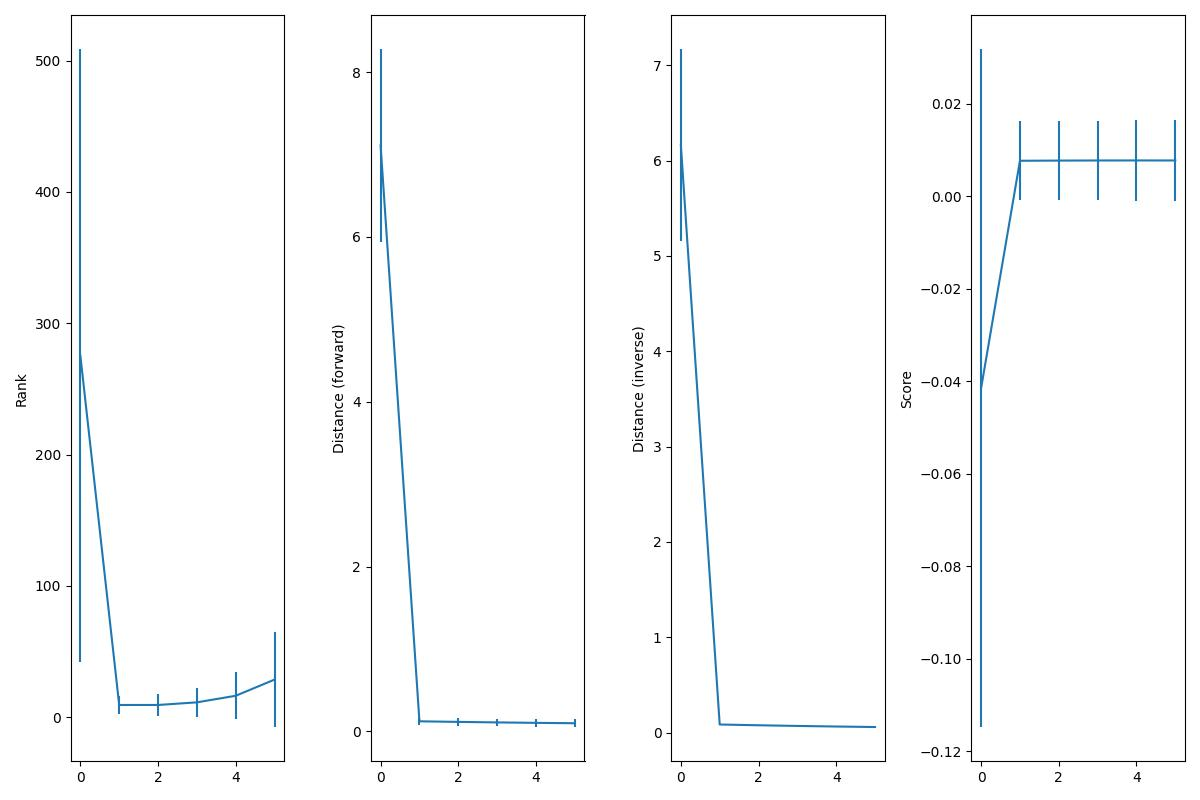
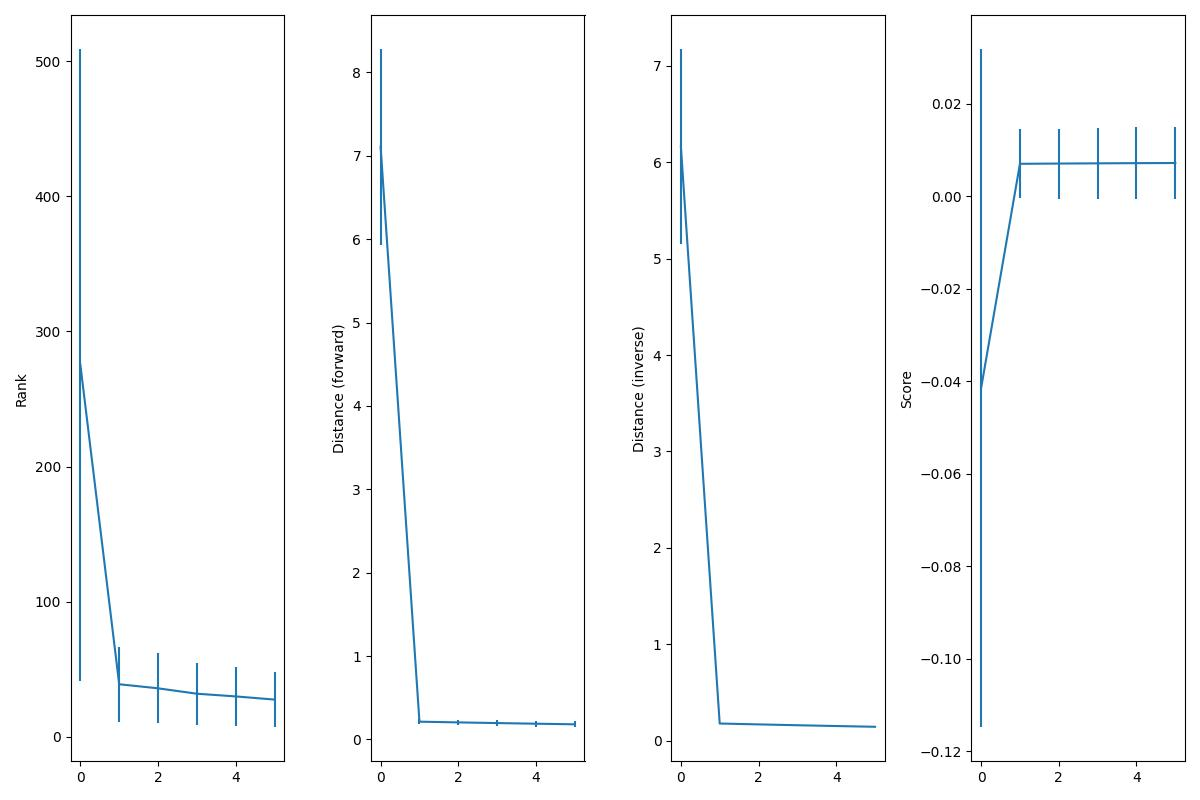
GD updater

diff --git a/critique.py b/critique.py
@@ -31,7 +31,7 @@ def get_args_critique():
     parser.add_argument('-etta_2', default=1.0, type=float, help='Precision for Laplace Approximation')
     parser.add_argument('-etta_3', default=1.0, type=float, help='Precision for Laplace Approximation')
     parser.add_argument('-etta_4', default=1.0, type=float, help='Precision for Laplace Approximation')
-    parser.add_argument('-alpha', default=0.1, type=float, help='Learning rate for GD in Laplace Approximation')
+    parser.add_argument('-alpha', default=0.05, type=float, help='Learning rate for GD in Laplace Approximation')
     parser.add_argument('-multi_k', default=10, type=int, help='number of samples for multi type update')
     parser.add_argument('-session_length', default=5, type=int, help='number of critiquing sessions')
     parser.add_argument('-num_users', default=50, type=int, help='number of users')
